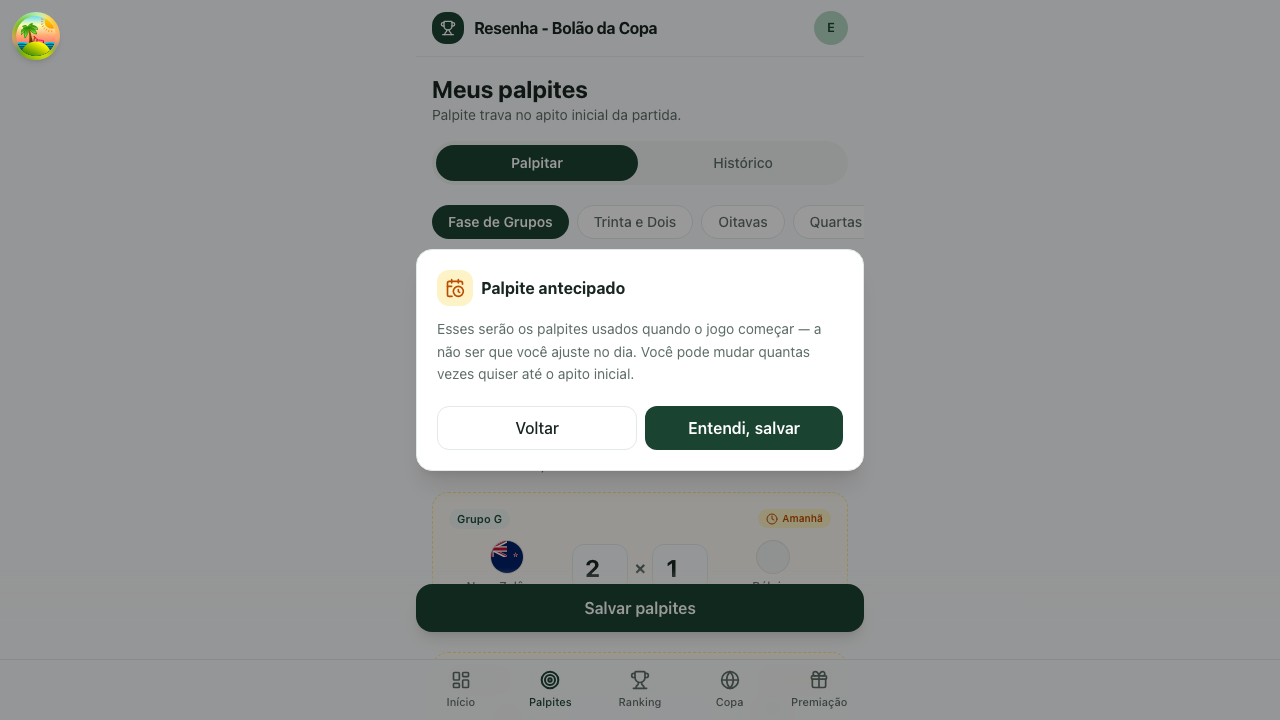
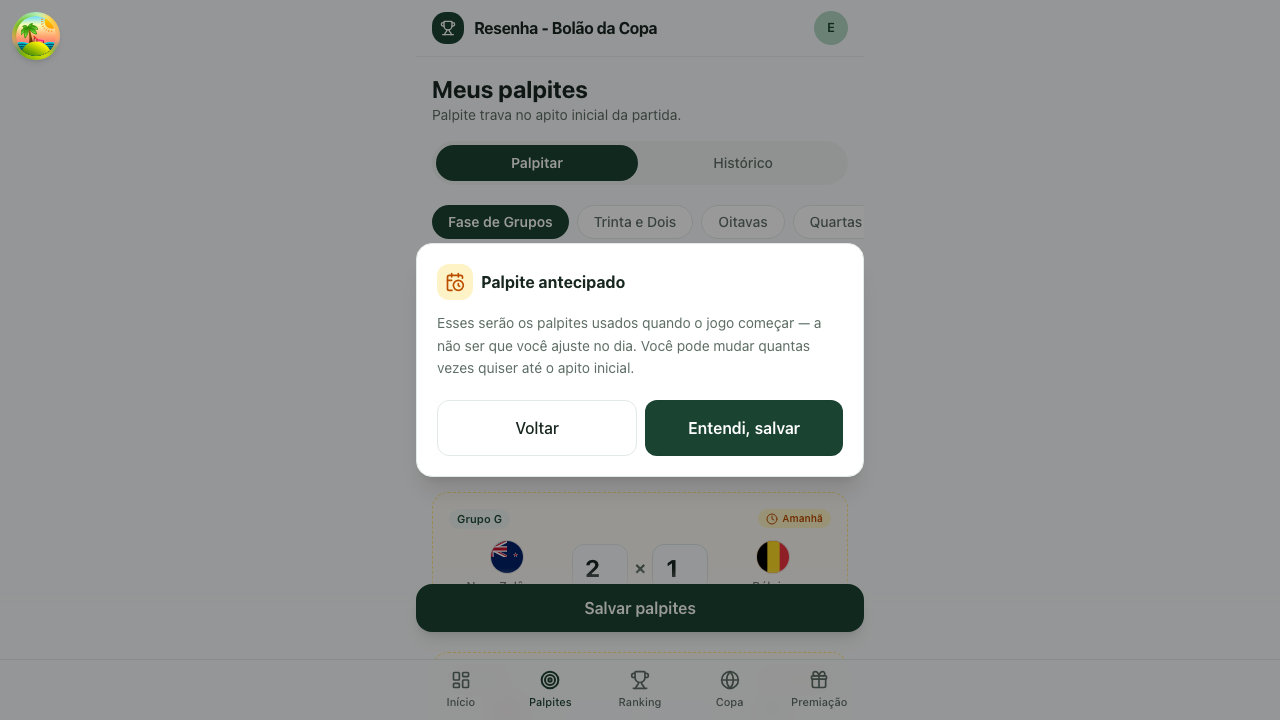
assert modal button size and stabilize advance-palpite e2e

diff --git a/tests/e2e/palpites.spec.ts b/tests/e2e/palpites.spec.ts
@@ -118,6 +118,9 @@ test.describe("Palpites (autenticado)", () => {
       }
     });
     await page.reload();
+    // Espera a rede assentar para a sessão (cookie) reidratar antes de salvar —
+    // sem isso o upsert pode sair com auth.uid() nulo e tomar 42501 (RLS), flaky.
+    await page.waitForLoadState("networkidle");
 
     // Card de jogo antecipado (badge "Amanhã") + inputs editáveis.
     const cardFuturo = page.locator("article", { hasText: "Amanhã" }).first();
@@ -132,6 +135,16 @@ test.describe("Palpites (autenticado)", () => {
     const modal = page.getByRole("dialog");
     await expect(modal).toBeVisible();
     await expect(modal.getByText(/usados quando o jogo começar/i)).toBeVisible();
+
+    // Botões do modal com alvo de toque confortável (h-14 = 56px).
+    const caixaConfirmar = await modal
+      .getByRole("button", { name: "Entendi, salvar" })
+      .boundingBox();
+    expect(caixaConfirmar).not.toBeNull();
+    expect(caixaConfirmar!.height).toBeGreaterThanOrEqual(52);
+    const caixaVoltar = await modal.getByRole("button", { name: "Voltar" }).boundingBox();
+    expect(caixaVoltar!.height).toBeGreaterThanOrEqual(52);
+
     await page.screenshot({ path: path.join(dirEvidencias, "antecipado-1-modal.png") });
 
     await modal.getByRole("button", { name: "Entendi, salvar" }).click();